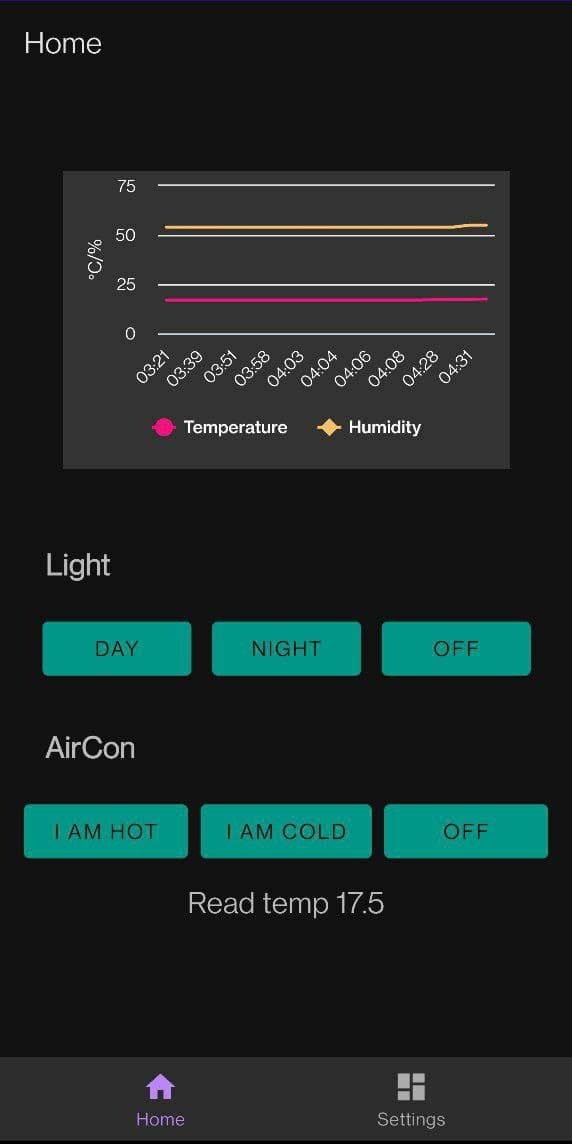
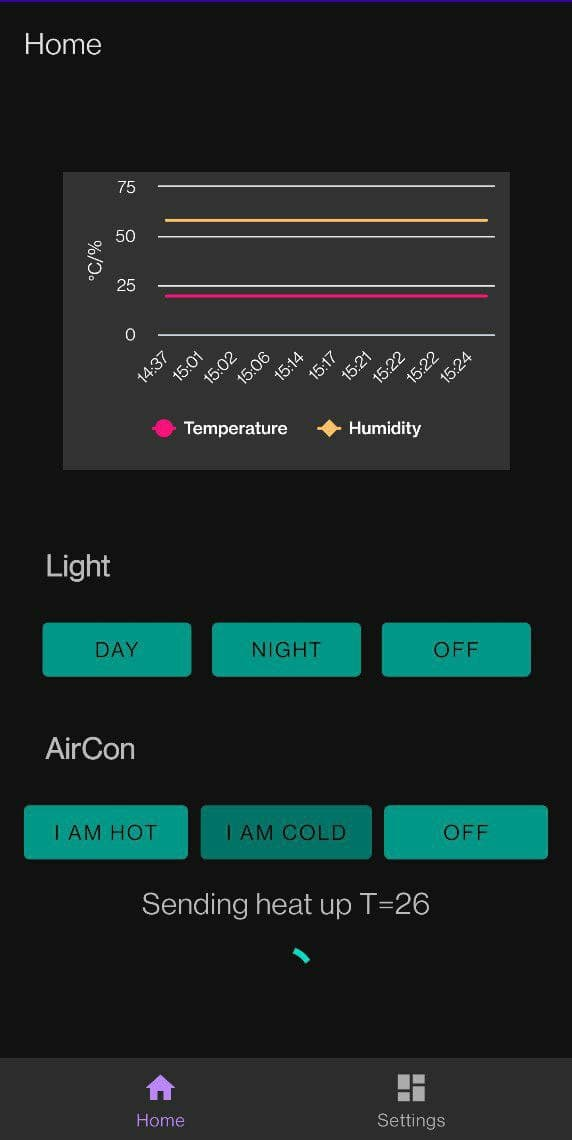
adding reading of light and aircon ids in settings

diff --git a/app/src/main/java/com/obolus/openremo/ui/home/HomeFragment.kt b/app/src/main/java/com/obolus/openremo/ui/home/HomeFragment.kt
@@ -29,15 +29,16 @@ var temps = floatArrayOf()
 var humidities = intArrayOf()
 var timer: Timer? = null
 
+
 class HomeFragment : Fragment() {
 
     private lateinit var homeViewModel: HomeViewModel
     private var _binding: FragmentHomeBinding? = null
 
-    private val lightId = "c9d0be99-ffa8-4253-848b-8eb131a894db"
-    private val airconId = "928f2a54-f1bc-4a75-930c-1fedc5d662c7"
-    private val url = "https://api.nature.global"
-    private var token = ""
+    private var url: String = ""
+    private var token: String = ""
+    private var lightId: String = ""
+    private var airconId: String = ""
 
     // This property is only valid between onCreateView and
     // onDestroyView.
@@ -60,6 +61,7 @@ class HomeFragment : Fragment() {
 
         _binding = FragmentHomeBinding.inflate(inflater, container, false)
         val root: View = binding.root
+        url = getString(R.string.api_url)
 
         val textView: TextView = binding.textHome
         homeViewModel.text.observe(viewLifecycleOwner, {
@@ -76,18 +78,27 @@ class HomeFragment : Fragment() {
             println("found token in pref: '${token}'")
             temp = sharedPref.getInt(getString(R.string.setting_temp), 26)
             println("found temp setting in pref: '${temp}'")
+            lightId = sharedPref.getString(getString(R.string.setting_light_id),"").toString()
+            airconId = sharedPref.getString(getString(R.string.setting_aircon_id),"").toString()
         }
         if (token.isEmpty()) {
             println("Token is empty")
             textView.text = "Please set token"
         }
+        if (lightId.isEmpty()) {
+            println("Light id is empty")
+            textView.text = "Please set light id"
+        }
+        if (airconId.isEmpty()) {
+            println("AC id is empty")
+            textView.text = "Please set aircon id"
+        }
 
-        Thread.sleep(1000)
         db = AppDatabase.getAppDataBase(context = requireContext())
         measurementDao = db?.measurmentDao()
 
         binding.buttonhot.setOnClickListener {
-            textView.text = "Sending command (T=${temp})"
+            textView.text = "Sending cool down to T=${temp}"
             binding.progressBar4.visibility = View.VISIBLE
             Fuel.post(
                 "$url/1/appliances/$airconId/aircon_settings",
@@ -115,7 +126,7 @@ class HomeFragment : Fragment() {
                 }
         }
         binding.buttoncold.setOnClickListener {
-            textView.text = "Sending command (T=${temp})"
+            textView.text = "Sending heat up T=${temp}"
             binding.progressBar4.visibility = View.VISIBLE
             Fuel.post(
                 "$url/1/appliances/$airconId/aircon_settings",
@@ -255,7 +266,7 @@ class HomeFragment : Fragment() {
             temps = latest.temps
             humidities = latest.humidities
             for (time in latest.times) {
-                times.add(DateFormat.format("hh:mm", time).toString())
+                times.add(DateFormat.format("HH:mm", time).toString())
             }
         }
 
@@ -265,20 +276,20 @@ class HomeFragment : Fragment() {
             .backgroundColor("#333333")
             .axesTextColor("#ffffff")
             .yAxisTitle("°C/%")
+            .categories(times.toTypedArray())
             .series(
                 arrayOf(
                     AASeriesElement()
                         .name("Temperature")
-                        .data(arrayOf(temps)),
+                        .data(temps.toTypedArray() as Array<Any>),
                     AASeriesElement()
                         .name("Humidity")
-                        .data(arrayOf(humidities))
+                        .data(humidities.toTypedArray() as Array<Any>)
                 )
             )
 
         //Draw chart (at this moment without data
         aaChartView.aa_drawChartWithChartModel(aaChartModel)
-        aaChartView.aa_hideTheSeriesElementContent(1)
 
         //Schedule data collection
         try {
@@ -307,7 +318,6 @@ class HomeFragment : Fragment() {
     private fun updateMeasurements(measurementDao : MeasurementDao) {
         println("Running update task")
 
-
         Fuel.get("$url/1/devices")
             .authentication()
             .bearer(token)
@@ -316,15 +326,13 @@ class HomeFragment : Fragment() {
                 when (result) {
                     is Result.Success -> {
                         val devicesJSON = JSONArray(result.get())
-                        val events = (devicesJSON[0] as JSONObject)["newest_events"] as JSONObject
+                        val events = devicesJSON.getJSONObject(0).getJSONObject("newest_events")
                         val temperature: Float? =
-                            ((events["te"] as JSONObject)["val"]).toString().toFloatOrNull()
+                            events.getJSONObject("te").get("val").toString().toFloatOrNull()
                         val humidity: Int? =
-                            (events["hu"] as JSONObject)["val"].toString().toIntOrNull()
+                            events.getJSONObject("hu").get("val").toString().toIntOrNull()
 
                         if (temperature != null && humidity != null) {
-                            //temps = appendWithLimit(temps, temperature)
-                            //humidities = appendWithLimit(humidities, humidity)
                             measurementDao.insert(Measurement(System.currentTimeMillis(),
                                 temperature, humidity))
                             println("Saved temp and humid lists")
@@ -361,7 +369,7 @@ class HomeFragment : Fragment() {
                 temps = latest.temps
                 humidities = latest.humidities
                 for (time in latest.times) {
-                    times.add(DateFormat.format("hh:mm", time).toString())
+                    times.add(DateFormat.format("HH:mm", time).toString())
                 }
             }
 

diff --git a/app/src/main/java/com/obolus/openremo/ui/dashboard/DashboardFragment.kt b/app/src/main/java/com/obolus/openremo/ui/dashboard/DashboardFragment.kt
@@ -10,8 +10,12 @@ import android.widget.SeekBar
 import androidx.core.widget.doAfterTextChanged
 import androidx.fragment.app.Fragment
 import androidx.lifecycle.ViewModelProvider
+import com.github.kittinunf.fuel.Fuel
+import com.github.kittinunf.fuel.core.extensions.authentication
+import com.github.kittinunf.result.Result
 import com.obolus.openremo.R
 import com.obolus.openremo.databinding.FragmentDashboardBinding
+import org.json.JSONArray
 
 class DashboardFragment : Fragment() {
 
@@ -21,6 +25,7 @@ class DashboardFragment : Fragment() {
     // This property is only valid between onCreateView and
     // onDestroyView.
     private val binding get() = _binding!!
+    private var url: String = ""
 
     override fun onCreateView(
         inflater: LayoutInflater,
@@ -32,11 +37,18 @@ class DashboardFragment : Fragment() {
 
         _binding = FragmentDashboardBinding.inflate(inflater, container, false)
         val root: View = binding.root
+        url = getString(R.string.api_url)
 
-        val apiKey : String = activity?.getPreferences(Context.MODE_PRIVATE)?.getString(getString(R.string.api_key), "").toString()
+        var apiKey: String = activity?.getPreferences(Context.MODE_PRIVATE)
+            ?.getString(getString(R.string.api_key), "").toString()
         binding.settingApiKey.text = Editable.Factory.getInstance().newEditable(apiKey)
+        binding.settingAirconId.text = activity?.getPreferences(Context.MODE_PRIVATE)
+            ?.getString(getString(R.string.setting_aircon_id), "undefined").toString()
+        binding.settingLightId.text = activity?.getPreferences(Context.MODE_PRIVATE)
+            ?.getString(getString(R.string.setting_light_id), "undefined").toString()
 
-        binding.seekBar2.progress = (activity?.getPreferences(Context.MODE_PRIVATE)?.getInt(getString(R.string.setting_temp), 26) ?: 26) - 16
+        binding.seekBar2.progress = (activity?.getPreferences(Context.MODE_PRIVATE)
+            ?.getInt(getString(R.string.setting_temp), 26) ?: 26) - 16
 
         binding.settingApiKey.doAfterTextChanged {
             val sharedPref = activity?.getPreferences(Context.MODE_PRIVATE)
@@ -44,6 +56,7 @@ class DashboardFragment : Fragment() {
                 with(sharedPref.edit()) {
                     putString(getString(R.string.api_key), binding.settingApiKey.text.toString())
                     println("setting apikey to ${binding.settingApiKey.text}")
+                    apiKey = binding.settingApiKey.text.toString()
                     apply()
                 }
             }
@@ -56,7 +69,7 @@ class DashboardFragment : Fragment() {
                 val sharedPref = activity?.getPreferences(Context.MODE_PRIVATE)
                 if (sharedPref != null) {
                     with(sharedPref.edit()) {
-                        val temp : Int = seekBar.progress + 16
+                        val temp: Int = seekBar.progress + 16
                         putInt(getString(R.string.setting_temp), temp)
                         println("setting temp to $temp")
                         apply()
@@ -64,6 +77,56 @@ class DashboardFragment : Fragment() {
                 }
             }
         })
+
+        binding.button.setOnClickListener {
+            Fuel.get(
+                "$url/1/appliances/",
+            ).authentication()
+                .bearer(apiKey)
+                .responseString { result2 ->
+                    when (result2) {
+                        is Result.Success -> {
+                            val sharedPref = activity?.getPreferences(Context.MODE_PRIVATE)
+                            val appliances = JSONArray(result2.get())
+                            for (i in 0 until appliances.length()) {
+                                val appliance = appliances.getJSONObject(i)
+                                val type = appliance["type"]
+                                if (type == "AC") {
+                                    println("found AC")
+                                    val id = appliance.get("id").toString()
+                                    if (sharedPref != null) {
+                                        with(sharedPref.edit()) {
+                                            putString(
+                                                getString(R.string.setting_aircon_id),
+                                                id
+                                            )
+                                            apply()
+                                            binding.settingAirconId.text = id
+                                        }
+                                    }
+                                } else if (type == "LIGHT") {
+                                    println("found light")
+                                    val id = appliance.get("id").toString()
+                                    if (sharedPref != null) {
+                                        with(sharedPref.edit()) {
+                                            putString(
+                                                getString(R.string.setting_light_id),
+                                                id
+                                            )
+                                            apply()
+                                            binding.settingLightId.text = id
+                                        }
+                                    }
+                                }
+                            }
+                        }
+
+                        is Result.Failure -> {
+                            println("Failed to get appliances $result2")
+                        }
+                    }
+                }
+        }
 
         return root
     }
